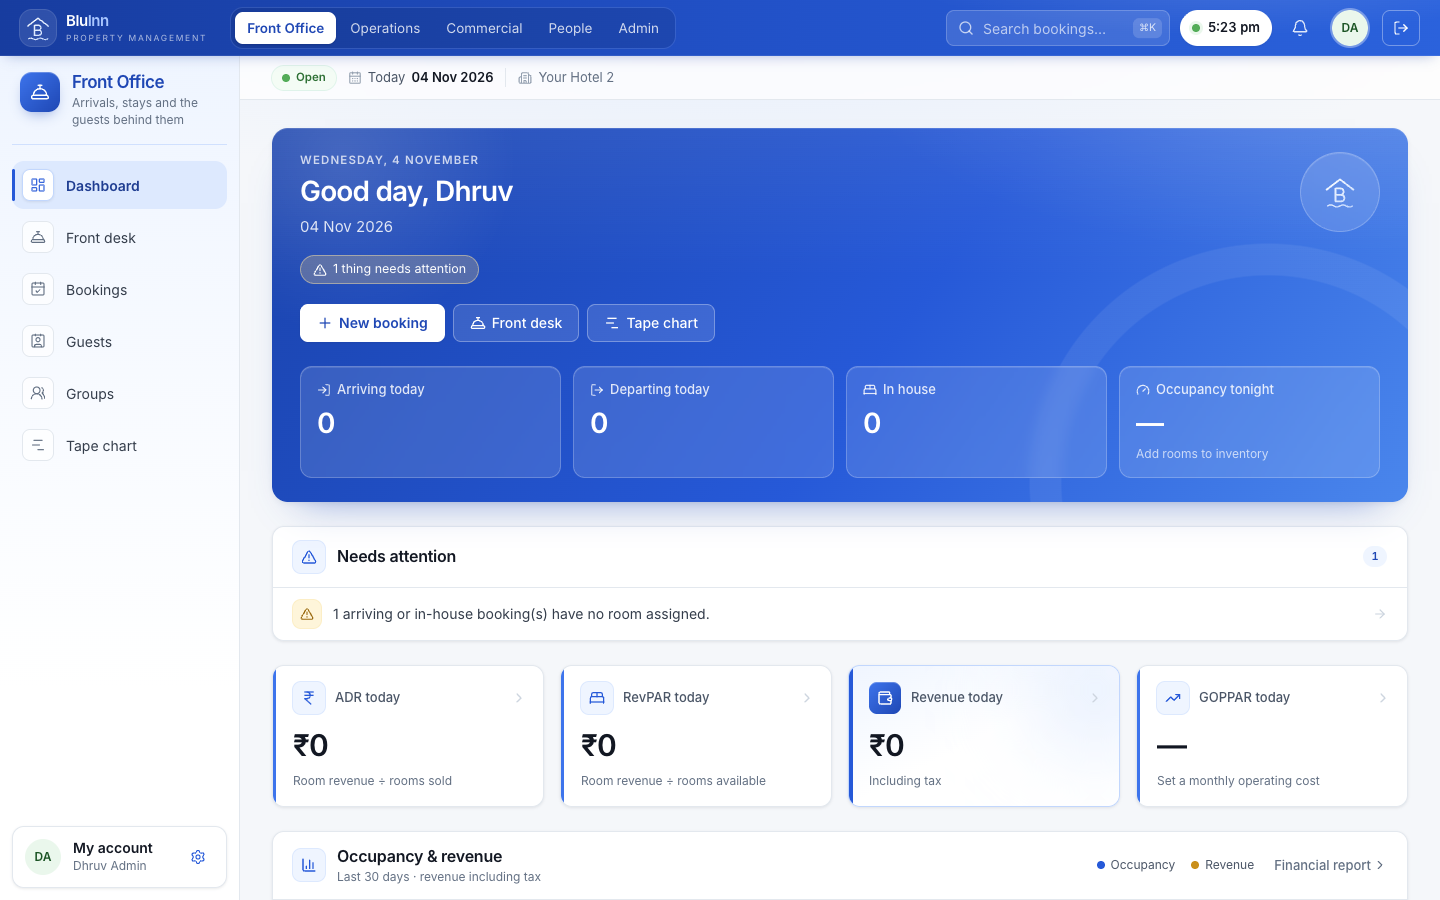
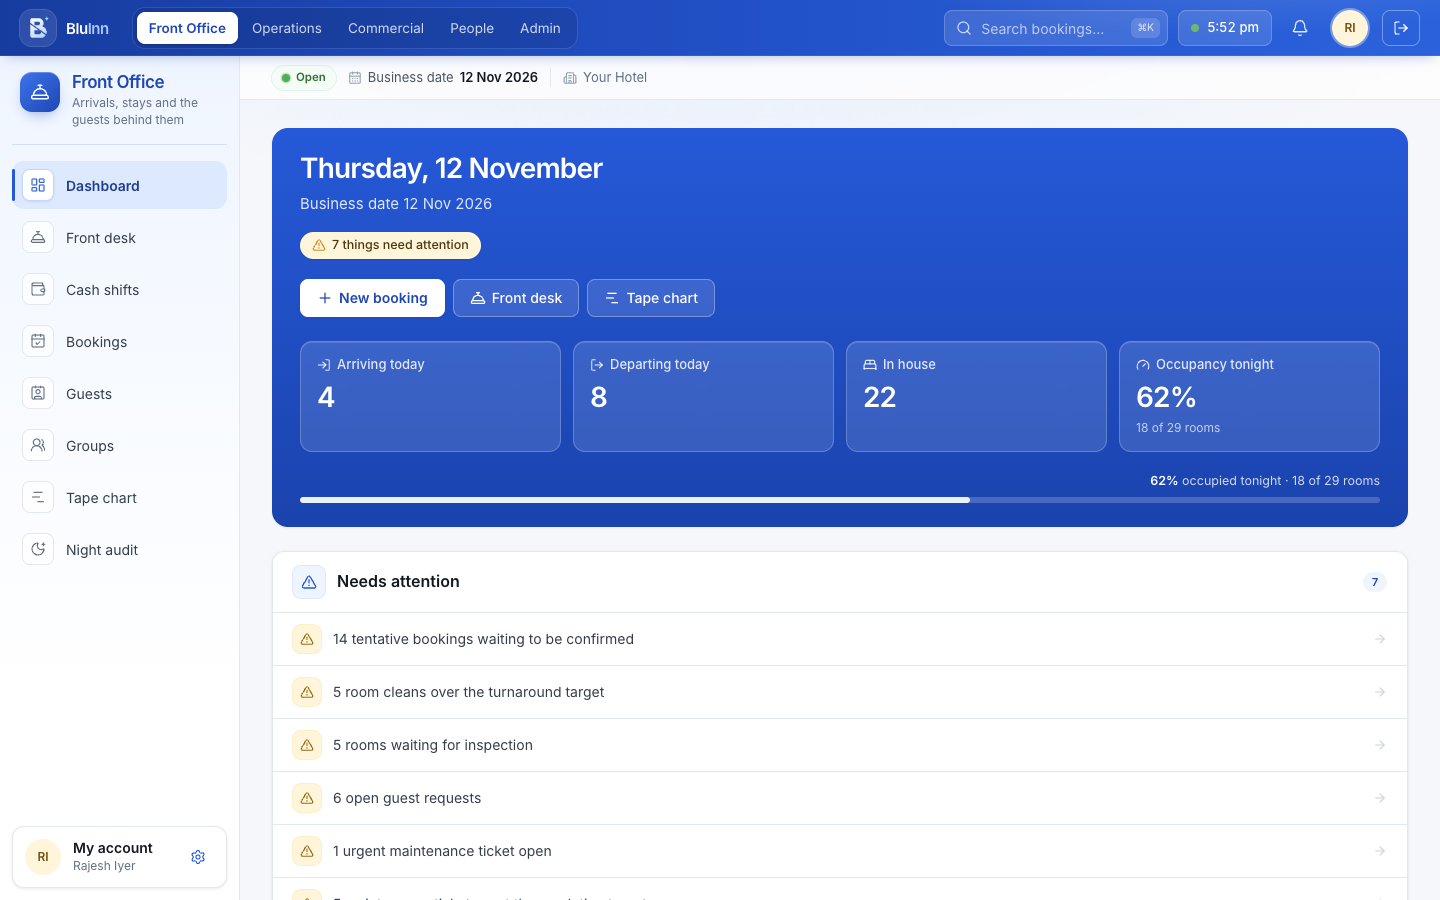
Demo Data seed and Fixed Data Flow of some Modules

diff --git a/README.md b/README.md
@@ -131,7 +131,17 @@ at the foot.
 <td align="center"><sub>Sign-in</sub></td>
 <td align="center"><sub>Taking a booking</sub></td>
 </tr>
+<tr>
+<td width="50%"><img src="docs/images/front-desk.png" alt="The front desk: arrivals, departures, in-house guests, the cash shift and room discrepancies" /></td>
+<td width="50%"><img src="docs/images/tape-chart.png" alt="The tape chart: every room and stay over the next two weeks" /></td>
+</tr>
+<tr>
+<td align="center"><sub>Front desk</sub></td>
+<td align="center"><sub>Tape chart</sub></td>
+</tr>
 </table>
+
+<sub>Screenshots use the demo data (<code>neon/demo/</code>), signed in as the demo General Manager.</sub>
 
 <br />
 
